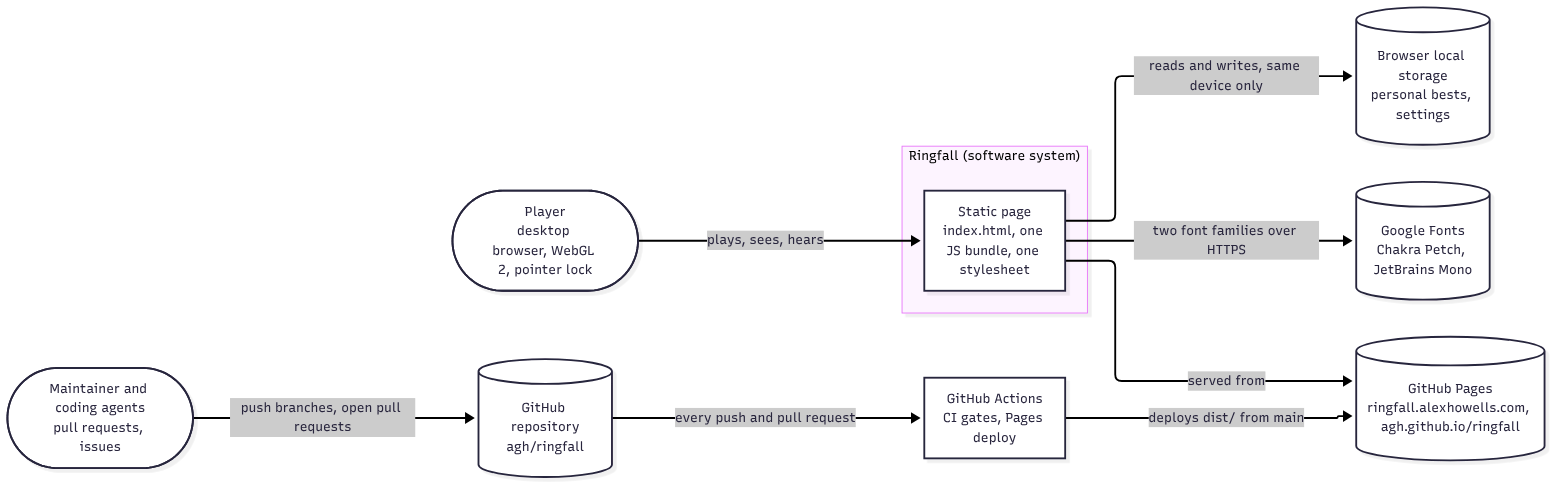
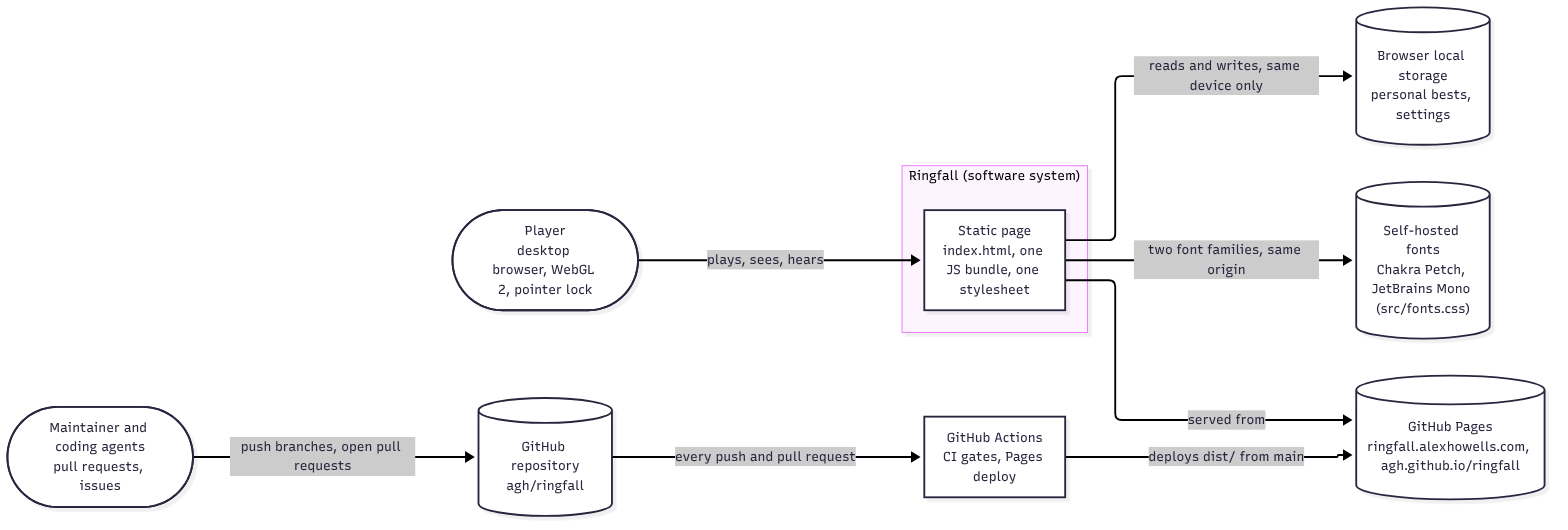
docs: follow PR #96 in the threat model, architecture, design doc and runbook
Part of #97 (Pass B). The fonts are self-hosted, so the threat model's
B2 and T2 rows, its residual risk and findings 5 and 19, the runtime
diagram, and the architecture context prose and diagram say so. The e2e
artifact is `playwright-report` again with the HTML report and traces.
Coverage thresholds read 97 and 90. The score WAV lives in a temporary
directory and `pnpm test:e2e` builds first. The light pool's "wave-8
roster" sizing sentence names the largest beat instead, in the design doc
and the comment it quotes.

Claude-Session: https://claude.ai/code/session_01ApXjDPsd6B7Tp18a3jrdjZ
(cherry picked from commit e43c6950ded8d715e1b26b58e1a1af10df9fb8eb)

diff --git a/src/render/lights.ts b/src/render/lights.ts
@@ -10,8 +10,8 @@ import * as THREE from 'three';
  * is out, the caller lights nothing rather than growing the count.
  *
  * The cost is the other way round from before: every lit fragment loops over the pool's full
- * size on every frame, even on the title card. Twelve covers a wave-8 roster (ten skimmers,
- * four striders) with two bolts in flight, and is below the fifteen or so that software GL in
+ * size on every frame, even on the title card. Twelve covers the largest beat (six skimmers,
+ * three striders) with two bolts in flight, and is below the fifteen or so that software GL in
  * CI already met at the peak of a wave.
  */
 export const LIGHT_POOL_SIZE = 12;

diff --git a/docs/threat-model.md b/docs/threat-model.md
@@ -61,12 +61,12 @@ flowchart LR
   end
 
   pages["GitHub Pages origin<br/>ringfall.alexhowells.com<br/>public/CNAME"]
-  fonts["Google Fonts<br/>fonts.googleapis.com (CSS)<br/>fonts.gstatic.com (woff2)"]
+  fonts["Self-hosted fonts<br/>src/fonts.css and woff2 files<br/>same origin since #96"]
   scripts["Anything with script access:<br/>devtools, extensions,<br/>Playwright, recorder scripts"]
 
   player -->|clicks, keys| input
   pages -->|"B1: HTTPS, CSP meta"| page
-  fonts -->|"B2: style-src and font-src allow-list"| page
+  fonts -->|"B2: style-src and font-src are 'self'"| page
   url -->|"B3: allow-list parsers"| core
   storage -->|"B3: 1 KB cap, field allow-list"| core
   page --> core --> present
@@ -80,7 +80,7 @@ flowchart LR
 | Boundary | From | To | What crosses | Why it is a boundary |
 | -------- | ---- | -- | ------------- | -------------------- |
 | B1 | GitHub Pages at the custom domain | the player's browser | the static build: `index.html`, hashed assets, `CNAME` | integrity of what is served depends on TLS, DNS and the Pages configuration, none of which is in this tree |
-| B2 | Google Fonts (two hosts) | the page | one stylesheet and the `woff2` files it names | a third-party origin inside the page; it learns the player's IP address and can inject CSS |
+| B2 | the fonts | the page | `src/fonts.css` and the `woff2` files beside it, served from the page's own origin since #96 | was two Google Fonts hosts inside the page until #96; the boundary id is kept for T2 |
 | B3 | the query string and local storage | `src/core` parsers | `?seed`, `?bot`, `?record`, `?nohud`, `?nopost`, `?atmo`, `?weather`; `ringfall.records.v1`, `ringfall.settings.v1` | the only untrusted input the page reads; anything the player, a share link or an extension wrote |
 | B4 | the page | browser-owned UI | pointer lock, fullscreen, audio unlock | the page asks for capabilities that can trap or annoy the player; the browser decides |
 | B5 | the page | anything with script access to the page | `window.ringfall`, `window.ringfallDebug`, `window.ringfallCapture` | the debug surface is readable by devtools, extensions and the test harness; nothing else can reach it cross-origin |
@@ -174,7 +174,7 @@ that implements it at `6fb2608`; "Gap" is what the control does not cover;
 | ID | Boundary | STRIDE | Threat | Likelihood | Impact | Control today (file, finding) | Gap | Issue |
 | -- | -------- | ------ | ------ | ---------- | ------ | ----------------------------- | --- | ----- |
 | T1 | B1, B10 | Spoofing, Tampering | The domain or the Pages site serves something other than the build from `main`: a DNS `CNAME` created before Pages is enabled and the domain verified can be claimed by another Pages site; HTTPS not enforced lets a network attacker rewrite the page. | Low | High | `public/CNAME` pins the hostname into every deploy; `vite.config.ts` content-hashes every asset; `docs/runbook.md` "Custom domain" gives the order of operations. As of 2026-10-21 Pages serves the branch source (the raw `index.html`) over HTTP, the DNS record exists and HTTPS is not enforced (F1; #54 finding 17; `docs/runbook.md`). | Pages source, custom domain verification and "Enforce HTTPS" are repository settings nobody has set (F1). | #85 |
-| T2 | B2 | Information disclosure, Tampering | Every page load sends the player's IP address, user agent and timing to `fonts.googleapis.com` and `fonts.gstatic.com` before any interaction; a compromised or substituted fonts response can inject CSS (not script) into the page. A cross-origin stylesheet cannot carry Subresource Integrity. | Medium | Low | `index.html` CSP `style-src 'self' https://fonts.googleapis.com; font-src https://fonts.gstatic.com` confines the two hosts to CSS and fonts; `script-src 'self'` keeps script out (F3). | The fonts are still loaded from Google (F5); `scripts/reel-cards/*.html` fetch them too (F19). Self-hosting removes the boundary. | #83 |
+| T2 | B2 | Information disclosure, Tampering | Until #96 every page load sent the player's IP address, user agent and timing to `fonts.googleapis.com` and `fonts.gstatic.com` before any interaction, and a compromised or substituted fonts response could inject CSS (not script) into the page. A cross-origin stylesheet cannot carry Subresource Integrity. | Medium | Low | Since #96 the fonts are self-hosted (`src/fonts.css`, `woff2` files and OFL texts beside them) and `index.html` CSP is `style-src 'self'; font-src 'self'`; `scripts/reel-cards/*.html` use the same local files; `script-src 'self'` keeps script out (F3). | None since #96 (F5, F19); #83 tracks closing the finding. | #83 |
 | T3 | B1 | Tampering, Elevation | A script or inline handler is injected into the page: through markup, a `data:` URL, an object, a worker or `eval`. | Low | High | `index.html` CSP: `default-src 'none'; script-src 'self'; worker-src 'none'; object-src 'none'; base-uri 'none'; form-action 'none'`, plus `<meta name="referrer" content="no-referrer">` (F3). No `innerHTML`, `insertAdjacentHTML`, `document.write`, `eval`, `new Function`, `fetch`, `postMessage` or `window.open` anywhere in `src/` (verified by #68; `src/hud/hud.ts` writes through `textContent`). `tests/e2e/smoke.spec.ts` fails on any console error, so a CSP refusal in the production preview fails CI. | A meta-tag CSP cannot set `frame-ancestors`, `report-uri` or `Permissions-Policy`; GitHub Pages sets no headers. | none (accepted, F17) |
 | T4 | B1 | Tampering | The page is embedded in a third-party frame (clickjacking). | Medium | Low | Nothing privileged exists to clickjack: no account, no purchase, no setting that matters outside the tab; the CSP comment in `index.html` records the decision (F17). An embedder can request fullscreen and pointer lock on its own page anyway. | `frame-ancestors` is ignored in a meta tag and Pages cannot send `X-Frame-Options`. | none (accepted, F17) |
 | T5 | B3 | Tampering, Denial of service | A hostile query string: `?seed=1e400`, `0x10`, `9007199254740993`, ten thousand digits, markup; or an unexpected `?atmo` or `?weather` value. | High | Low | `parseSeed` in `src/core/rng.ts` accepts only a decimal integer in `[1, 2^32 - 1]` and otherwise uses the clock (F8), tested against twenty hostile inputs in `tests/unit/rng.test.ts`; `readOverride` in `src/render/environment.ts` matches `?atmo` and `?weather` against fixed lists; `?bot`, `?record` and `?nohud` are presence checks in `src/main.ts`, `?nopost` in `src/render/scene.ts`. No parameter reaches markup. | None in code. `SECURITY.md` lists the same seven parameters. | none (doc fix noted on #78's pull request) |
@@ -192,7 +192,7 @@ that implements it at `6fb2608`; "Gap" is what the control does not cover;
 | T12 | B6 | Information disclosure | A token, key or password is committed. | Low | High | `ci.yml` job `Security and workflow hygiene`: gitleaks 8.30.1 (SHA-256 verified download) over the working tree and the pushed commits with `.gitleaks.toml`, plus a self-test that the allowlist still catches a realistic `ghp_` and `sk_live_` token; `.pre-commit-config.yaml` runs gitleaks and `detect-private-key`; #68's sweep of the tree and `git log --all -p` found nothing (F22). | GitHub-side secret scanning and push protection are repository settings not yet confirmed on (F22). | #85 |
 | T13 | B6 | Tampering | A commit breaks an invariant that no reviewer would catch by eye: a `three` import or a clock in the pure core, a franchise term, a self-reference to the old repository name, a gameplay number that no longer matches the design document. | High | Medium | `tests/unit/purity.test.ts` and Biome restrict `src/core` to no `three`, `window`, `document`, `Date.now`, `Math.random`; `tests/unit/originality.test.ts` greps every tracked file outside `docs/research/` for the term list in `tests/unit/originality.terms.ts` (ADR-0003); `tests/unit/repo-name.test.ts` rejects the old repository path; `tests/unit/design-doc.test.ts` ties constants to `docs/design-doc.md`; `tests/balance/` and the `Luminance gate` job bound behavior and brightness. | None. These are the tests that did the stopping on 2026-10-21; see below. | none |
 | T14 | B7 | Elevation | A pull request workflow steals the `GITHUB_TOKEN`, writes to the repository, or runs an action whose upstream was replaced. | Low | High | `ci.yml` top-level `permissions: contents: read`; every `actions/checkout` has `persist-credentials: false`; `ci.yml` is the only workflow and has no `pull_request_target` or `workflow_run` trigger (#76 added a `workflow_run` deploy trigger and #89 removed it the same hour because zizmor rejects it); no `${{ }}` expression inside a `run:` (verified by #68); every `uses:` is pinned to a commit SHA with its tag in a comment, and #68 confirmed each SHA resolves to that tag; the `pages-deploy` job alone holds `pages: write` and `id-token: write`, checks nothing out, and runs only after `pages-build`, which has `contents: read` (F9, moved from `deploy-pages.yml` into `ci.yml` by #89). actionlint 1.7.12 and zizmor 1.31.1 at `--persona=pedantic` run on every pull request (`ci.yml` security job); Dependabot proposes action bumps weekly after a 7-day cooldown (`.github/dependabot.yml`, F12). | The repository-level Actions defaults (read-only token, approval for fork pull requests, allowed actions) could not be read (F20). They matter the day the repository is public. | #85 |
-| T15 | B7 | Repudiation | Evidence of a failing browser run is lost: the e2e artifact is uploaded on failure but holds nothing. | High | Low | `ci.yml` uploads `test-results/` as `playwright-traces` on e2e failure (#100); `playwright.config.ts` writes traces on first retry to `test-results/`. | None since #100; the artifact was `playwright-report`, which the `github` reporter never writes (F14). | #86 |
+| T15 | B7 | Repudiation | Evidence of a failing browser run is lost: the e2e artifact is uploaded on failure but holds nothing. | High | Low | `ci.yml` uploads `playwright-report/` and `test-results/` as `playwright-report` on e2e failure (#100, #96); `playwright.config.ts` writes the HTML report in CI and traces on first retry to `test-results/`. | None since #96; before #100 the artifact held only `playwright-report/`, which the `github` reporter alone never wrote (F14). | #86 |
 | T16 | B7, B8 | Tampering | A tool downloaded at CI time is substituted. | Low | Medium | typos, Vale, actionlint and gitleaks are fetched from GitHub releases at pinned versions and checked with `sha256sum --check --strict` before use (`ci.yml` docs and security jobs); `astral-sh/setup-uv` is SHA-pinned; Chromium comes from Playwright's own pinned distribution. | zizmor is run through `uvx --from zizmor==1.31.1` with a version pin only, no checksum; a PyPI compromise of that exact release would run on the runner with a read-only token. Accepted: the runner holds nothing to steal and the job runs no project code afterwards. | none (accepted) |
 | T17 | B7 | Tampering | A workflow regression goes unnoticed because a finding is suppressed. | Medium | Low | `.github/zizmor.yml` carries no ignores (`rules: {}` since #89); every zizmor finding at `--persona=pedantic` fails the security job. | None. | none |
 | T18 | B8 | Tampering | A hijacked or typosquatted npm release is installed on a developer machine or the runner; a lifecycle script runs on install. | Medium | High | `package.json` pins every dependency exactly, `pnpm-lock.yaml` carries sha512 integrity for each, every workflow job runs `pnpm install --frozen-lockfile`; `pnpm-workspace.yaml` `minimumReleaseAge: 1440` (nothing younger than a day resolves) and `onlyBuiltDependencies: []` (no dependency runs an install script); `.npmrc` `engine-strict=true` (F11); `.github/dependabot.yml` `versioning-strategy: increase`, `cooldown: 7 days`, grouped dev tooling (F12); `pnpm audit --audit-level=high` gates every pull request (`ci.yml` security job, from #62) with `pnpm.overrides` lifting the advisories that have fixes (F4). The one runtime dependency is `three@0.186.1`. | `GHSA-vfj7-8cjw-p6xm` (`braces`, high, reached only through `markdownlint-cli2` expanding the repository's own glob) is ignored under `pnpm.auditConfig` because no fixed release exists; the ignore is to be removed when one ships (recorded in #62). Dependency review on pull requests needs the dependency graph enabled by an admin. | #85 (dependency review); the `braces` ignore is residual risk, see section 5 |
@@ -281,8 +281,9 @@ tracked, this is what remains and is accepted:
    page cannot forbid framing, report CSP violations or set a
    `Permissions-Policy`. There is nothing privileged in the page to
    protect with them (T3, T4).
-2. **Google Fonts until #83 lands.** Two third-party hosts learn the
-   player's address on every load and could inject CSS (T2).
+2. **Google Fonts, until #96.** Two third-party hosts learned the
+   player's address on every load and could inject CSS (T2); the fonts are
+   self-hosted since #96 and #83 tracks closing the finding.
 3. **One unfixable development advisory.** `braces` through
    `markdownlint-cli2` has no patched release; it is reached only by the
    repository's own glob and never by untrusted input (T18).
@@ -360,7 +361,7 @@ issue tracks it; "Accepted" means the residual risk is stated in section 5.
 | 2 | Medium | No branch protection or ruleset on `main` | Admin | T10, A2, #85 |
 | 3 | Medium | No CSP or referrer policy | Fixed (`index.html`) | T3 |
 | 4 | Medium | Nine audit advisories under `markdownlint-cli2`; no audit gate | Fixed (`package.json` overrides and `audit` script by #68; CI gate by #62) | T18 |
-| 5 | Medium | Google Fonts on every load | Open | T2, #83 |
+| 5 | Medium | Google Fonts on every load | Fixed (#96) | T2, #83 |
 | 6 | Medium | Full source maps shipped | Fixed (`vite.config.ts`) | T9 |
 | 7 | Low | Personal bests parsed without validation | Fixed (`src/core/records.ts`) | T7 |
 | 8 | Low | `?seed` aliasing through `Number()` | Fixed (`src/core/rng.ts`) | T5 |
@@ -369,12 +370,12 @@ issue tracks it; "Accepted" means the residual risk is stated in section 5.
 | 11 | Low | No pnpm hardening | Fixed (`pnpm-workspace.yaml`, `.npmrc`) | T18 |
 | 12 | Low | Dependabot without pin strategy, cooldown or grouping | Fixed (`.github/dependabot.yml`) | T14, T18 |
 | 13 | Low | Script arguments unvalidated | Fixed (`scripts/lib/args.mjs`) | T21 |
-| 14 | Low | `playwright-report` artifact always empty | Fixed (#100) | T15, #86 |
+| 14 | Low | `playwright-report` artifact always empty | Fixed (#100, #96) | T15, #86 |
 | 15 | Low | Recorder frame-rate and cleanup nits | Partly fixed (frame-rate guard, #76); rest open | T21, #87 |
 | 16 | Info | `window.ringfallDebug` ungated | Open | T6, #84 |
 | 17 | Info | Page is framable | Accepted | T4 |
 | 18 | Info | Stale links to the Pages URL | Superseded by #74; the host answers once A1 is done | T20, #85 |
-| 19 | Info | Reel cards fetch Google Fonts | Open | T2, #83 |
+| 19 | Info | Reel cards fetch Google Fonts | Fixed (#96) | T2, #83 |
 | 20 | Admin | Actions default settings unreadable | Admin | T14, A3, #85 |
 | 21 | Admin | `github-pages` environment unrestricted | Admin | T19, A4, #85 |
 | 22 | Admin | Code security settings unreadable | Admin | T12, A5, #85 |

diff --git a/docs/architecture/README.md b/docs/architecture/README.md
@@ -50,15 +50,15 @@ are never typed by hand.
 
 Ringfall is one static page with no backend. The player opens it in a
 desktop browser with WebGL 2 and pointer lock; GitHub Pages serves it from
-the custom domain, and the page fetches nothing else at runtime except two
-font families from Google Fonts, which the content security policy in
-`index.html` names explicitly. The only data the page keeps is the player's
+the custom domain, and the page fetches nothing else at runtime; the two
+font families are self-hosted (`src/fonts.css`) and the content security
+policy in `index.html` allows no other origin. The only data the page keeps is the player's
 personal bests and settings, in that browser's local storage, and nothing
 leaves the device. The maintainer and the coding agents they run change the
 system through pull requests to the repository; every push runs the CI
 gates and a push to `main` deploys the build.
 
-![System context: the player, the static page, GitHub Pages, Google Fonts, local storage, the repository and its CI](render/context.png)
+![System context: the player, the static page, GitHub Pages, the self-hosted fonts, local storage, the repository and its CI](render/context.png)
 
 Source: [diagrams/context.mmd](diagrams/context.mmd).
 
@@ -209,7 +209,7 @@ one with write permission.
 | --- | ----- | -------- |
 | Lint and type check | Biome, markdownlint, strict TypeScript | none |
 | Unit tests | Every core rule and the coverage thresholds in `vitest.config.ts` | `coverage` |
-| Browser smoke tests | The built page loads, starts, advances, moves on keys, no page errors | `playwright-traces` (the `test-results/` directory) on failure |
+| Browser smoke tests | The built page loads, starts, advances, moves on keys, no page errors | `playwright-report` (the HTML report and the traces) on failure |
 | Luminance gate | Ten seeded frames within the mean and blob budgets in `scripts/frames.mjs` | `frames` |
 | Production build | `vite build` succeeds | `dist` |
 | Balance gate | Twenty seeded games per profile within `tests/balance/gate.ts` | `balance-report`, also appended to the job summary |

diff --git a/docs/design-doc.md b/docs/design-doc.md
@@ -432,8 +432,8 @@ its top edge; that is the only gameplay effect.
   `src/render/lights.ts`) that is in the scene from the first frame: enemy
   rigs, bolts, the beam and explosions borrow one and return it, a
   returned light goes dark in place, and when the pool is empty the effect
-  simply has no light. Twelve covers a wave-8 roster with two bolts in
-  flight; the trade is that every lit fragment loops over twelve lights on
+  simply has no light. Twelve covers the largest beat (six skimmers and three striders) with
+  two bolts in flight; the trade is that every lit fragment loops over twelve lights on
   every frame, including the title card, where before it looped over the
   lights present. A pool that grows with the wave, or lights culled by
   distance, is the next step if an integrated GPU shows the cost.
@@ -521,8 +521,8 @@ round cover convincingly enough for an arena with convex blocks.
 ## Testing Strategy
 
 - **Unit (Vitest, Node).** Every module in `src/core/` is covered
-  (`playtest.ts` through the bot tests). Coverage thresholds: 85 % lines,
-  functions, and statements, 75 % branches; the actual figures are printed by
+  (`playtest.ts` through the bot tests). Coverage thresholds: 97 % lines,
+  functions, and statements, 90 % branches; the actual figures are printed by
   `pnpm test` and quoted in the pull request with the command that produced
   them.
 - **Playtest (Vitest, Node).** A scripted player (`src/core/bot.ts`) plays

diff --git a/docs/runbook.md b/docs/runbook.md
@@ -110,8 +110,8 @@ pnpm test:watch     # vitest in watch mode
 
 ## Playwright
 
-The smoke tests in `tests/e2e/` run against `vite preview`, so the
-production build must exist first. Each test has a 600 second budget and
+The smoke tests in `tests/e2e/` run against `vite preview`; `pnpm test:e2e`
+builds first (#96). Each test has a 600 second budget and
 waits up to 240 seconds for the simulation clock to pass 0.5 seconds,
 because software GL renders the post stack at a few frames per second.
 
@@ -162,7 +162,7 @@ node scripts/record-demo.mjs --seed 7 --seconds 45 --fps 30 --out demo.mp4
 
 `scripts/render-score.mjs` starts a second preview on port 4176, re-runs
 the same seed headlessly to recover the event timeline, renders every voice
-and effect into an `OfflineAudioContext`, writes `.record-score.wav`, and
+and effect into an `OfflineAudioContext`, writes a `score.wav` in a temporary directory, and
 muxes it into the silent film as 192 kbps AAC. Its flags and defaults are
 `--seed 7`, `--seconds 40`, `--lead-in 1`, `--video demo.mp4`, and
 `--out demo-scored.mp4`. The seed and seconds must match the capture or the

diff --git a/CHANGELOG.md b/CHANGELOG.md
@@ -136,7 +136,8 @@ and this project adheres to
   security jobs only; the luminance gate and the browser smoke tests still
   fail the run but no longer hold the deploy. The smoke tests wait up to
   four minutes for the first simulation step and the e2e job uploads the
-  Playwright traces on failure (#100).
+  Playwright traces, and since #96 the HTML report, as `playwright-report`
+  on failure (#100).
 - Pickups glow through their own emissive rig instead of one point light
   each (#29).
 - HUD and overlay styling moved onto the brand tokens and type scale, with
